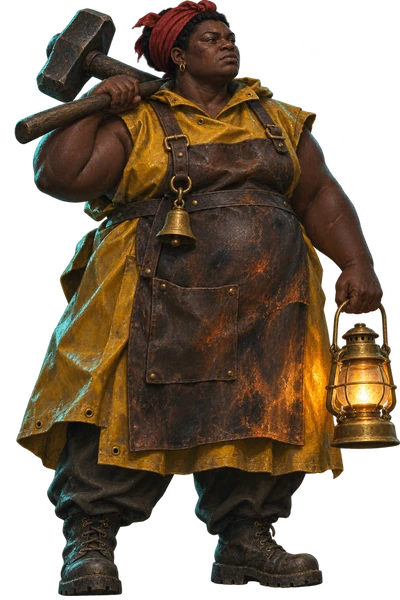
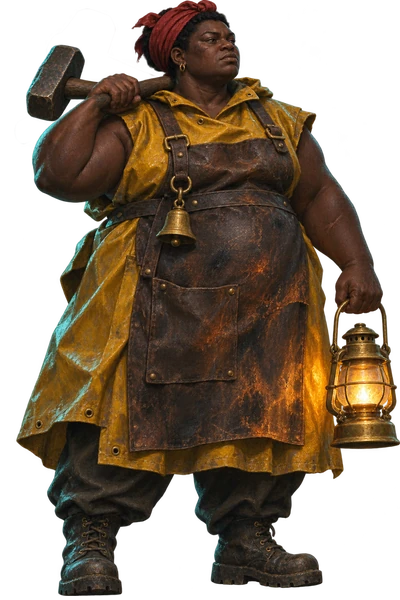
Notes: Abena's hammer fixed, and three more Wren costume drafts
Abena's sledgehammer had its head partway along the handle; only the
hammer area of an edit was pasted back. New drafts: the steam cloud and
Gulp (cheeky, nothing shown) and the homecoming gala, a reward for
bringing the Heart home.

Changed region(s): [[0.03, 0.0, 0.42, 0.27]]

diff --git a/GAME_NOTES.md b/GAME_NOTES.md
@@ -1572,7 +1572,7 @@ The user asked how more characters could be added, and wanted to judge the look 
   | dev | Dev, a ship's boy of about 14, South Asian (the user's pick of two tunings) | dev-tuned-b.png | 155, 526, 0.78 |
   | tavita | Tavita, a giant Samoan hauler with an anchor | tavita.png | 124, 552, 1.14 |
   | rook | Rook, an androgynous Latin American whaler with a peg leg | rook.png | 150, 592, 1.0 |
-  | abena | Abena, a big Black anchor-smith with a sledgehammer | abena.png | 145, 565, 1.06 |
+  | abena | Abena, a big Black anchor-smith with a sledgehammer | abena-fixed.png | 145, 565, 1.06 |
   | esi | Esi, a slim Black rigging runner with a rope dart (ochre trousers, so she shows on a phone) | esi-tuned-b.png | 228, 588, 1.03 |
   | engine | The Lamp Engine, the keepers' clockwork bell-tender | engine.png | 90, 572, 1.1 |
   | gulp | Gulp, a sea monster who wants to be a keeper | gulp.png | 160, 610, 0.9 |
@@ -1584,6 +1584,7 @@ The user asked how more characters could be added, and wanted to judge the look 
   | mateo | Mateo, a Cuban cooper with a barrel-lid shield | mateo-2b.png | 103, 560, 1.06 |
 
 - **Mateo:** the user kept the concept, but in the first picture his arm went through the shield and one hand held both the shield and the mallet. It was redrawn twice, with the anatomy spelled out in the prompt. In 2b the shield is strapped to his left forearm and the mallet is in his right hand.
+- **Abena:** her first picture had a broken sledgehammer, with the head partway along the handle and the handle sticking out on both sides (the user spotted it). Only the hammer area of a Codex edit was pasted back (`abena-fixed.png`), so the rest of her is unchanged.
 - **Set aside:**
   - Tamsin, Abel and Ness (round 1, too alike: all white, all in similar coats);
   - Hae-won, Wei, Setsuko and Kenji;
@@ -1597,6 +1598,10 @@ The user asked how more characters could be added, and wanted to judge the look 
     - the lobster suit;
     - the lighthouse: a weathered stone tower like the one on the title screen, with lit windows, no door, and its lantern room as a hat. It replaced a red-and-white striped one. Its first version was too pale; the user said the real tower is browner, so it was repainted with heavy rust-brown patches over grey-cream stone (3a; 3b is lighter);
     - the shell bikini, the barbarian and the barrel.
+    - Cheeky ones, where she has lost her clothes but nothing is shown:
+      - steam: dripping wet after a night swim, hidden from collarbones to knees in a comedy censor cloud with an indignant gull on top. Unlock idea: win a fight at Crest 6.
+      - Gulp: Gulp stands in front of her, arms spread and grinning, while she peers over his head. Unlock idea: defeat the Pale Gulper 10 times.
+    - The gala: a reward for bringing the Heart home the first time, like the costumes fighting games give for finishing arcade mode. The harbour throws a party and she comes as a music-hall showgirl: a sea-green sequinned leotard, opaque stockings, a gull-feather headdress with a brass bell, her scarf as a boa, still in her boots. It is an original design.
   - Dropped by the user: ballerina and brass mech.
   - The armour: Codex's image tool refused a skimpy fantasy-armour parody (shell pauldrons, a shell bikini, greaves), so it was made on local Qwen-Image 2.1 instead (`wren_armour.webp`). Its licence makes it a draft only (see "Local generation").
   - The secret costumes are whole-picture Codex edits, so her face and pose are close but not identical, and the light is warmer. To ship one, paste it back with a mask like the Rig pictures, or inpaint it locally.
